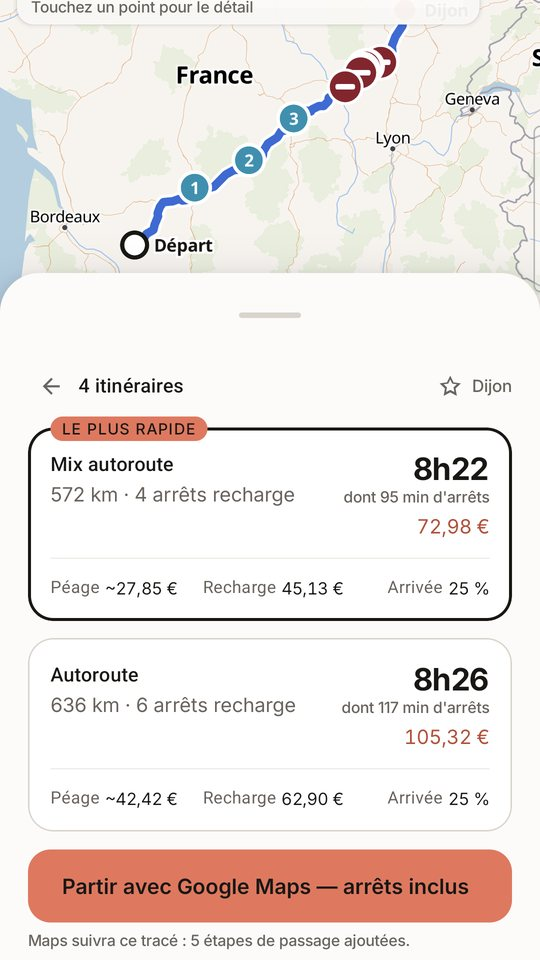
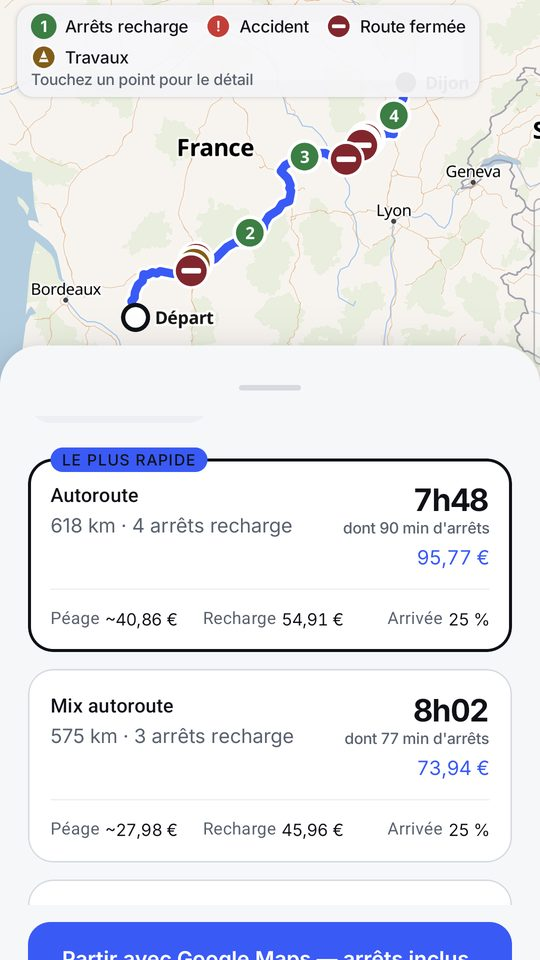
Site : captures et fonctions de la 0.4.5 (J'y reste, pause dejeuner)
A pousser apres validation de la 0.4.5 par Google.

Changed region(s): [[0.0, 0.0, 1.0, 1.0], [0.9481, 0.0, 0.9778, 0.0312], [0.0, 0.0, 0.0296, 0.0312]]

diff --git a/docs/index.html b/docs/index.html
@@ -152,18 +152,18 @@
   <div class="shots">
     <figure>
       <img src="capture-itineraires.jpg" width="540" height="960" loading="lazy"
-           alt="Écran de Wattlas : quatre itinéraires comparés vers Dijon, avec durée, péage, recharge et batterie à l'arrivée.">
+           alt="Écran de Wattlas : itinéraires comparés de Douzains à Dijon — autoroute 7 h 48 pour 95,77 €, mix autoroute 8 h 02 pour 73,94 €, péage et recharge détaillés.">
       <figcaption>Plusieurs itinéraires pour la même destination, chacun avec son temps, son péage et sa recharge.</figcaption>
     </figure>
     <figure>
-      <img src="capture-heure-gagnee.jpg" width="540" height="960" loading="lazy"
-           alt="Wattlas chiffre l'heure gagnée : « Mix autoroute » fait gagner 1 h 01 pour 36,19 € de plus, soit 36 € l'heure gagnée.">
-      <figcaption>Le prix de l'heure gagnée entre le plus rapide et le plus économique. Le choix reste le vôtre.</figcaption>
+      <img src="capture-jy-reste.jpg" width="540" height="960" loading="lazy"
+           alt="« J'y reste » au Leroy Merlin d'Agen, 2 h : suffisant pour rentrer, deux bornes à 300 m à pied, +57 % de batterie.">
+      <figcaption>« J'y reste » : deux heures de courses, les bornes à pied, et assez pour rentrer.</figcaption>
     </figure>
     <figure>
-      <img src="capture-detail.jpg" width="540" height="960" loading="lazy"
-           alt="Détail du trajet : courbe de la batterie le long des 572 km, avec les quatre recharges et leur durée.">
-      <figcaption>La batterie le long du trajet, chaque arrêt avec sa durée, son coût et l'énergie ajoutée.</figcaption>
+      <img src="capture-dejeuner.jpg" width="540" height="960" loading="lazy"
+           alt="Pause déjeuner : l'arrêt recharge de 13 h 29 sur l'aire du Bourbonnais devient la pause repas, 45 minutes, restaurant à moins de 300 m.">
+      <figcaption>La pause déjeuner : l'arrêt de midi devient le repas, sans compter comme un arrêt subi.</figcaption>
     </figure>
   </div>
 
@@ -172,6 +172,8 @@
     <li><strong>Il annonce ce que ça coûte vraiment</strong> : recharge au tarif du réseau emprunté, péages au centime — les 551 gares françaises sont dans l'appli — et batterie restante à l'arrivée.</li>
     <li><strong>Il compare le prix du péage au temps gagné.</strong> Avec le pack hors ligne, plusieurs itinéraires du tout-autoroute au tout-national, avec leur coût réel — et la réponse à la seule question qui compte : le plus rapide pour le budget qu'on se fixe. En ligne, un itinéraire calculé et détaillé.</li>
     <li><strong>Il calcule sans réseau.</strong> Avec le pack France (optionnel, ~3,3 Go, à télécharger en Wi-Fi depuis les réglages), carte, routage, bornes de recharge et grilles de péage vivent sur le téléphone : le trajet aboutit même sans une barre de signal. Sans le pack, l'appli fonctionne avec une connexion internet.</li>
+    <li><strong>« J'y reste » : recharger pendant qu'on fait autre chose.</strong> Deux heures de courses, un rendez-vous, un restaurant : Wattlas liste les bornes à pied du lieu, ce que la batterie aura récupéré à votre retour, et si c'est assez pour rentrer.</li>
+    <li><strong>La pause déjeuner.</strong> Sur un long trajet, l'arrêt recharge qui tombe entre midi et deux devient la pause repas — avec ce qu'il y a à manger à moins de 300 m. Ces minutes-là ne comptent pas comme un arrêt subi.</li>
     <li><strong>Il compte le temps d'arrêt en entier</strong> : la durée annoncée comprend les recharges et les minutes perdues à se garer, brancher et repartir — les cinq minutes que les estimations optimistes oublient.</li>
     <li><strong>Une borne en panne en arrivant ?</strong> Un appui l'écarte et recalcule le trajet sans elle.</li>
     <li><strong>Il apprend votre voiture — avec vous.</strong> Après un trajet, vous notez la batterie réellement restante ; l'appli s'en sert pour que la consommation utilisée devienne la vôtre, pas celle du constructeur.</li>
